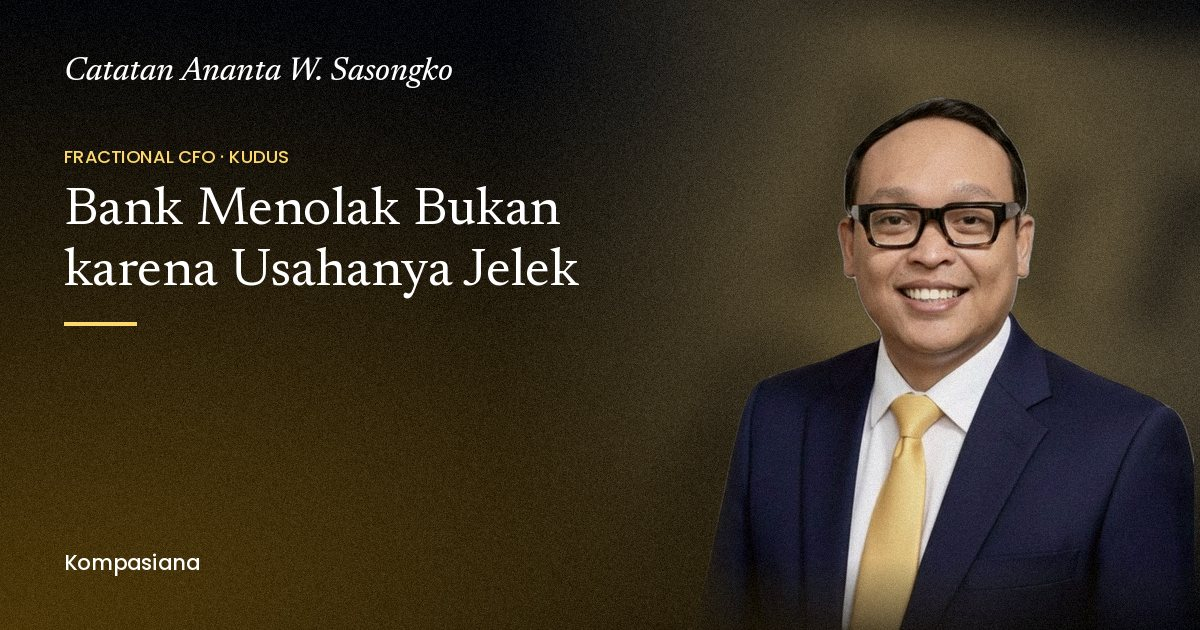
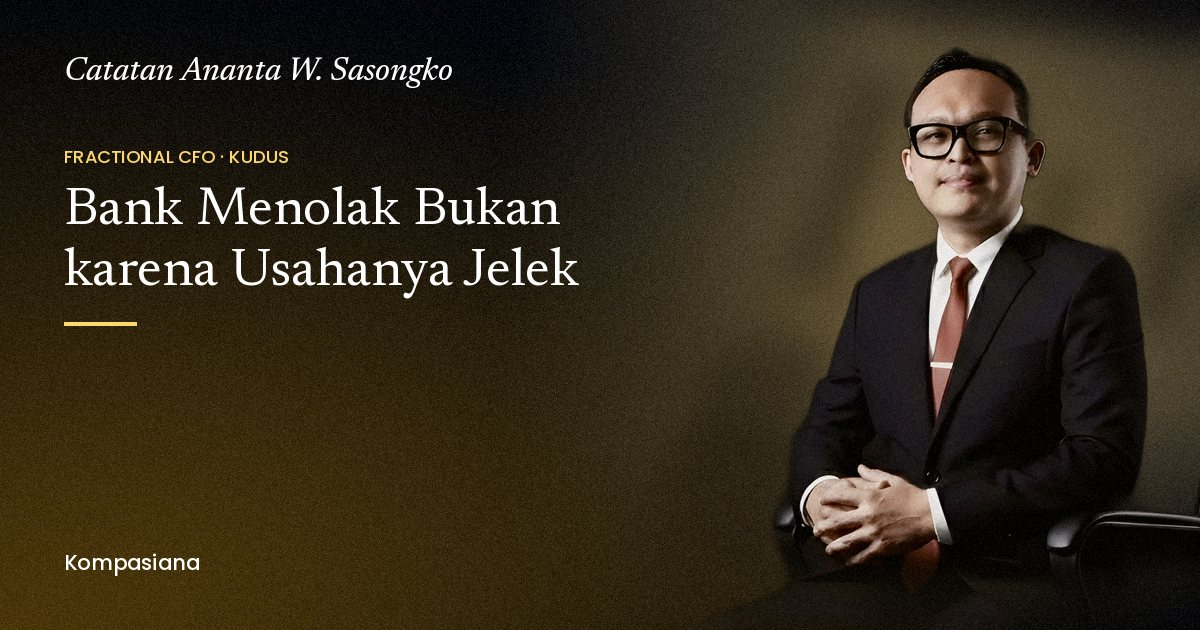
Poster Kompasiana: 6 foto selain jas navy, bergiliran
Claude-Session: https://claude.ai/code/session_0157imiouvt2a8ZvcNzQpXgd

Changed region(s): [[0.5858, 0.0603, 1.0, 1.0]]

diff --git a/README-DEPLOY.md b/README-DEPLOY.md
@@ -629,4 +629,5 @@ shared/dhn/dhn.py (dipanggil prep.py sebelum zip): kartu KAP DHN (logo, izin KMK
 - `fa_content/daerah20261115/poster_daerah.py`: _person() memakai foto bergiliran (bukan ananta-jas.png saja) + grain merata.
 - `caus_poster_foto_20261117.py` (BEKERJA DI out/, idempoten, --dry, --noimg; jalankan PALING AKHIR untuk CA/US, sesudah caus_hero_fa_20261117.py): membuat ulang og 156 artikel CA + og/story 46 artikel US, og 30 artikel daerah FA/CA/US, 10 poster Kompasiana (out/faindonesia/img/kompasiana/, nama file tetap), dan menyisipkan gambar pembuka `<!--fotoart--><figure class="dae-fig">` tepat setelah hero gelap rxh di 146 artikel CA dan 36 artikel US. URL gambar tidak berubah, meta tag tidak disentuh.
 - Cek: 182 halaman x 1280/375 tanpa scroll horizontal, error JS, atau gambar kosong; layout_check OK; rerun --dry 0 perubahan.
+- Poster Kompasiana sengaja tanpa foto jas navy (sudah terlalu sering dipakai), urutan 6 foto lain diset manual di assign.json.
 - Kompasiana: poster di halaman yang sudah terbit adalah file yang di-upload ke server Kompasiana, jadi baru berganti bila gambar di tiap artikel diganti lewat Edit.
